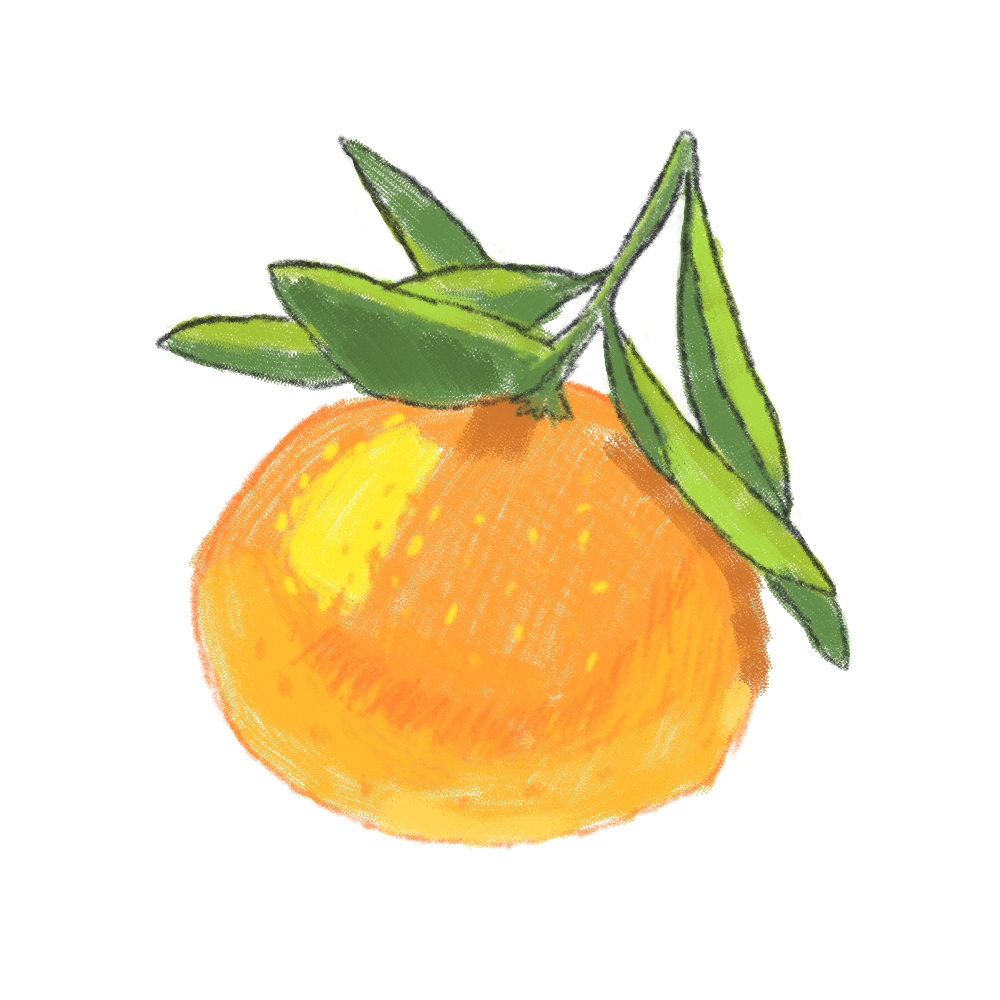
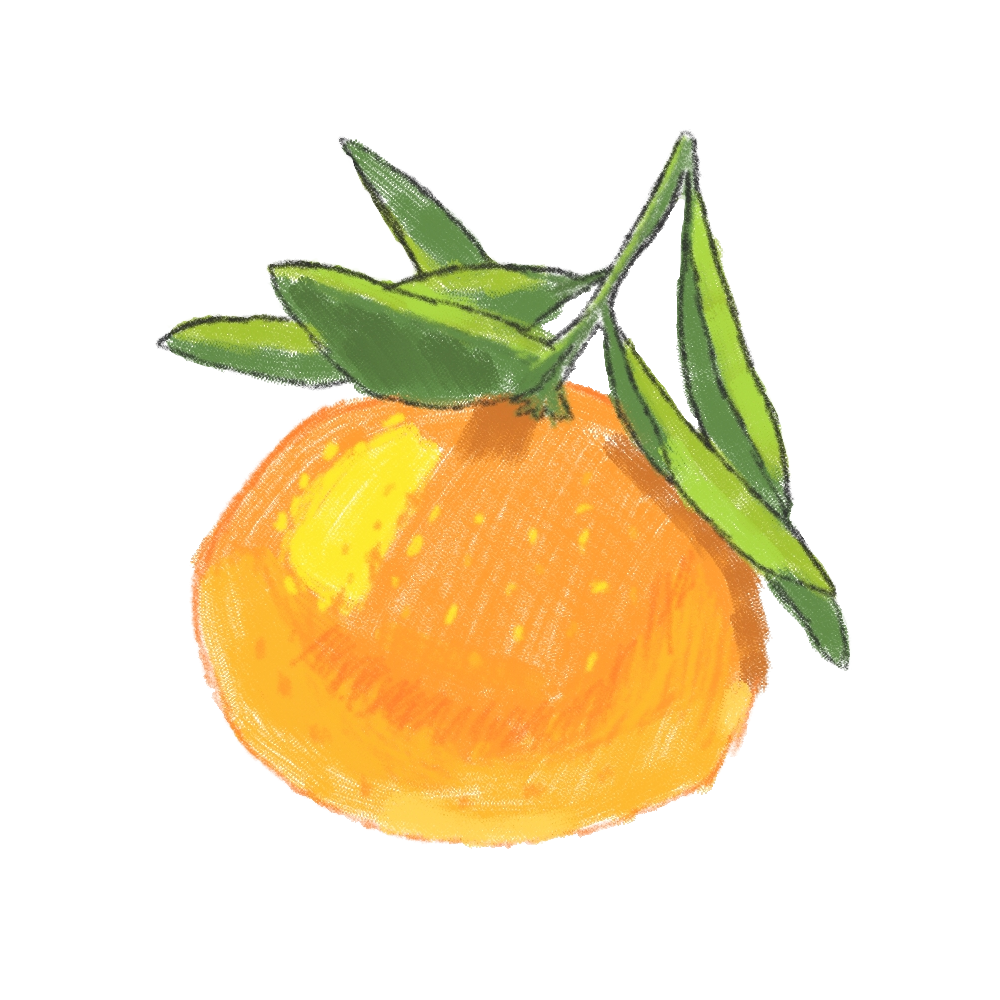
fix(ui): resolve deprecation warnings and improve settings organization
- Add missing i18n key 'open_source_acknowledgments' for zh_SIMPLIFIED
- Fix el-link underline prop deprecation (boolean → 'never')
- Move dark mode toggle from general to appearance settings tab
- Remove white background from orange.png logo

diff --git a/src/bindings.ts b/src/bindings.ts
@@ -330,7 +330,7 @@ quickActionCompleted: "quick-action-completed"
 
 /** user-defined constants **/
 
-export const DEFAULT_CONFIG = {"backup_path":"save_data","devices":{},"favorites":[],"games":[],"quick_action":{"enable_notification":true,"enable_sound":true,"hotkeys":{"apply":["","",""],"backup":["","",""]},"quick_action_game":null,"sounds":{"failure":{"kind":"default"},"success":{"kind":"default"}}},"settings":{"add_new_to_favorites":false,"appearance":{"custom_font_enabled":false,"ui_font_family":""},"cloud_settings":{"always_sync":false,"auto_sync_interval":0,"backend":{"type":"Disabled"},"root_path":"/game-save-manager"},"default_delete_before_apply":false,"default_expend_favorites_tree":false,"exit_to_tray":true,"extra_backup_when_apply":true,"home_page":"/","locale":"zh_SIMPLIFIED","log_to_file":true,"max_auto_backup_count":0,"prompt_when_auto_backup":true,"prompt_when_not_described":false,"save_list_expand_behavior":"always_closed","save_list_last_expanded":false,"show_edit_button":false},"version":"1.7.2"} as const;
+export const DEFAULT_CONFIG = {"backup_path":"save_data","devices":{},"favorites":[],"games":[],"quick_action":{"enable_notification":true,"enable_sound":true,"hotkeys":{"apply":["","",""],"backup":["","",""]},"quick_action_game":null,"sounds":{"failure":{"kind":"default"},"success":{"kind":"default"}}},"settings":{"add_new_to_favorites":false,"appearance":{"custom_font_enabled":false,"ui_font_family":""},"cloud_settings":{"always_sync":false,"auto_sync_interval":0,"backend":{"type":"Disabled"},"root_path":"/game-save-manager"},"default_delete_before_apply":false,"default_expend_favorites_tree":false,"exit_to_tray":true,"extra_backup_when_apply":true,"home_page":"/","locale":"zh_SIMPLIFIED","log_to_file":true,"max_auto_backup_count":0,"prompt_when_auto_backup":true,"prompt_when_not_described":false,"save_list_expand_behavior":"always_closed","save_list_last_expanded":false,"show_edit_button":false},"version":"1.7.3"} as const;
 
 /** user-defined types **/
 

diff --git a/src/pages/Settings.vue b/src/pages/Settings.vue
@@ -4,13 +4,7 @@ import { computed, ref, watch, onMounted } from 'vue';
 import { $t, i18n } from '../i18n';
 import { ElOption } from 'element-plus';
 import draggable from 'vuedraggable';
-import {
-  Setting,
-  Document,
-  Unlock,
-  Moon,
-  Tools,
-} from '@element-plus/icons-vue';
+import { Setting, Document, Unlock, Moon, Tools } from '@element-plus/icons-vue';
 import HotkeySelector from '../components/HotkeySelector.vue';
 import { useNavigationLinks } from '../composables/useNavigationLinks';
 import { useDark, useDebounceFn } from '@vueuse/core';
@@ -695,10 +689,6 @@ const { linksWithGames: router_list } = useNavigationLinks();
             <ElSwitch v-model="config.settings.log_to_file" />
             <span class="setting-label">{{ $t('settings.log_to_file') }}*</span>
           </div>
-          <div class="setting-box">
-            <ElSwitch v-model="isDark" />
-            <span class="setting-label">{{ $t('settings.enable_dark_mode') }}</span>
-          </div>
 
           <el-divider content-position="left">
             <el-icon>
@@ -830,6 +820,10 @@ const { linksWithGames: router_list } = useNavigationLinks();
             <span class="tab-title">{{ $t('settings.appearance_settings') }}</span>
           </el-divider>
 
+          <div class="setting-box">
+            <ElSwitch v-model="isDark" />
+            <span class="setting-label">{{ $t('settings.enable_dark_mode') }}</span>
+          </div>
           <div class="setting-box">
             <ElSwitch v-model="config.settings.appearance!.custom_font_enabled" />
             <span class="setting-label">{{ $t('settings.custom_font_enabled') }}</span>

diff --git a/src/pages/About.vue b/src/pages/About.vue
@@ -117,7 +117,7 @@ const backendDeps = [
                   <div v-for="lib in frontendDeps" :key="lib.name" class="dep-row">
                     <el-link
                       type="primary"
-                      :underline="false"
+                      underline="never"
                       class="dep-name"
                       @click="openUrl(lib.url)"
                     >
@@ -133,7 +133,7 @@ const backendDeps = [
                   <div v-for="lib in backendDeps" :key="lib.name" class="dep-row">
                     <el-link
                       type="primary"
-                      :underline="false"
+                      underline="never"
                       class="dep-name"
                       @click="openUrl(lib.url)"
                     >

diff --git a/src/composables/useSaveListExpandBehavior.ts b/src/composables/useSaveListExpandBehavior.ts
@@ -38,7 +38,9 @@ export function useSaveListExpandBehavior(options: SaveListExpandOptions) {
     return false;
   }
 
-  const saveListDefaultOpeneds = computed(() => (shouldExpandSaveList() ? [saveListMenuIndex] : []));
+  const saveListDefaultOpeneds = computed(() =>
+    shouldExpandSaveList() ? [saveListMenuIndex] : []
+  );
 
   async function applySaveListExpandState() {
     await nextTick();

diff --git a/src/components/MainSideBar.vue b/src/components/MainSideBar.vue
@@ -11,7 +11,7 @@ import { useSaveListExpandBehavior } from '../composables/useSaveListExpandBehav
 
 const { config } = useConfig();
 const { baseLinks } = useNavigationLinks();
-const { sidebarWidth, isResizing, startResize } = useSidebarResize({
+const { isResizing, startResize } = useSidebarResize({
   minWidth: 200,
   maxWidth: 400,
 });
